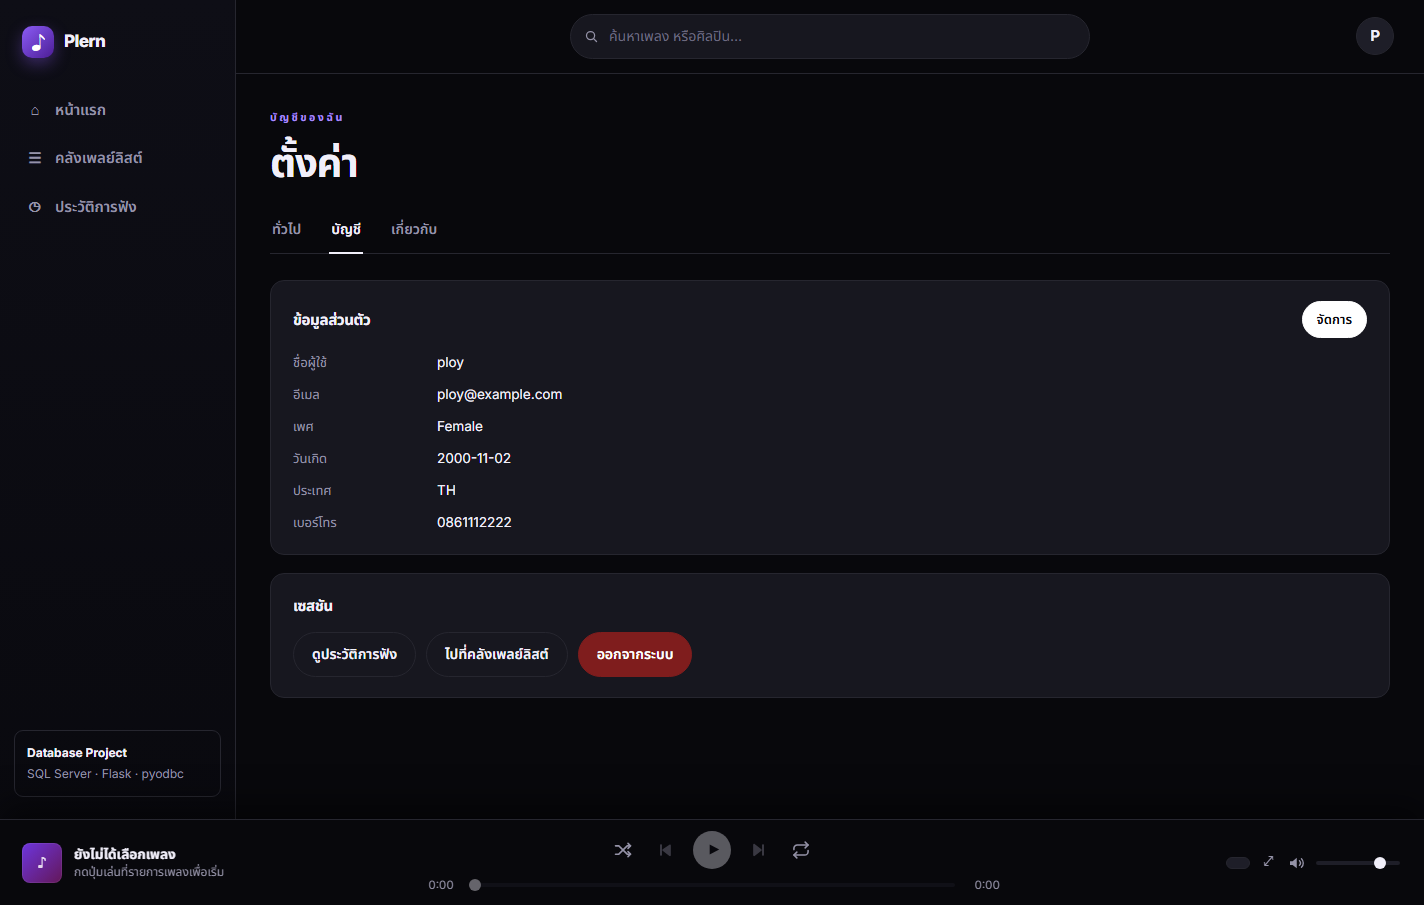
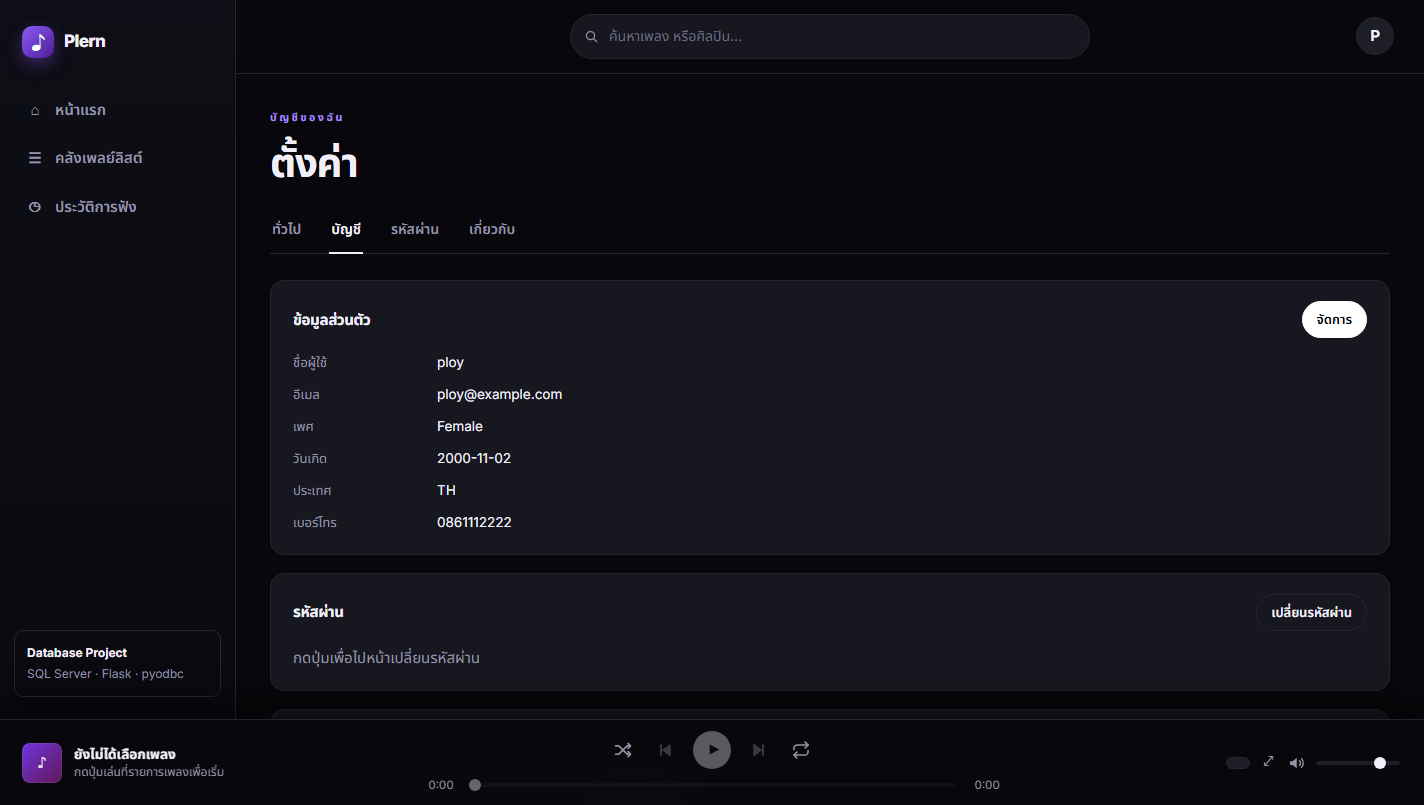
feat(settings): password gets its own tab at /settings/account/change-password

diff --git a/app/templates/settings_account.html b/app/templates/settings_account.html
@@ -17,30 +17,13 @@
 </section>
 
 <section class="settings-card">
-  <h2>{{ t('password.title') }}</h2>
-  <form method="post" action="{{ url_for('main.change_password') }}" class="form password-form">
-    <div class="field-row">
-      <label class="field">
-        <span>{{ t('password.current') }}</span>
-        <input type="password" name="current" required autocomplete="current-password">
-      </label>
-      <label class="field">
-        <span>{{ t('password.new') }}</span>
-        <input type="password" name="new" required minlength="8" autocomplete="new-password"
-               placeholder="{{ t('password.hint') }}">
-      </label>
-    </div>
-    <div class="field-row">
-      <label class="field">
-        <span>{{ t('password.confirm') }}</span>
-        <input type="password" name="confirm" required minlength="8" autocomplete="new-password">
-      </label>
-      <div class="field field-submit">
-        <span>&nbsp;</span>
-        <button class="btn btn-light" type="submit">{{ t('password.submit') }}</button>
-      </div>
-    </div>
-  </form>
+  <div class="card-head">
+    <h2>{{ t('password.title') }}</h2>
+    <a class="btn btn-ghost btn-sm" href="{{ url_for('main.change_password_page') }}">
+      {{ t('password.submit') }}
+    </a>
+  </div>
+  <p class="muted">{{ t('password.go_hint') }}</p>
 </section>
 
 <section class="settings-card">

diff --git a/app/templates/settings_password.html b/app/templates/settings_password.html
@@ -1,0 +1,31 @@
+{% extends "settings_base.html" %}
+
+{% block settings_content %}
+<section class="settings-card">
+  <h2>{{ t('password.title') }}</h2>
+
+  <form method="post" class="form password-form">
+    <label class="field">
+      <span>{{ t('password.current') }}</span>
+      <input type="password" name="current" required autocomplete="current-password">
+    </label>
+
+    <div class="field-row">
+      <label class="field">
+        <span>{{ t('password.new') }}</span>
+        <input type="password" name="new" required minlength="8" autocomplete="new-password"
+               placeholder="{{ t('password.hint') }}">
+      </label>
+      <label class="field">
+        <span>{{ t('password.confirm') }}</span>
+        <input type="password" name="confirm" required minlength="8" autocomplete="new-password">
+      </label>
+    </div>
+
+    <div class="row-actions">
+      <button class="btn btn-light" type="submit">{{ t('password.submit') }}</button>
+      <a class="btn btn-ghost" href="{{ url_for('main.settings_tab', tab='account') }}">{{ t('edit.cancel') }}</a>
+    </div>
+  </form>
+</section>
+{% endblock %}

diff --git a/app/templates/settings_base.html b/app/templates/settings_base.html
@@ -9,9 +9,9 @@
 </header>
 
 <nav class="settings-tabs">
-  {% for name in tabs %}
-    <a class="settings-tab {{ 'active' if tab == name }}"
-       href="{{ url_for('main.settings_tab', tab=name) }}">{{ t('settings.tab.' ~ name) }}</a>
+  {% for item in tabs %}
+    <a class="settings-tab {{ 'active' if tab == item.slug }}"
+       href="{{ item.url }}">{{ t(item.label) }}</a>
   {% endfor %}
 </nav>
 

diff --git a/app/routes.py b/app/routes.py
@@ -766,7 +766,21 @@ def logout():
 # ---------------------------------------------------------------------------
 # Profile menu pages: account settings, help, legal
 # ---------------------------------------------------------------------------
-SETTINGS_TABS = ("general", "account", "about")
+SETTINGS_TABS = ("general", "account", "password", "about")
+
+
+def _settings_tabs(active: str) -> list[dict]:
+    """Tab bar entries: (slug, url, i18n key)"""
+    return [
+        {"slug": "general", "url": url_for("main.settings_tab", tab="general"),
+         "label": "settings.tab.general"},
+        {"slug": "account", "url": url_for("main.settings_tab", tab="account"),
+         "label": "settings.tab.account"},
+        {"slug": "password", "url": url_for("main.change_password_page"),
+         "label": "settings.tab.password"},
+        {"slug": "about", "url": url_for("main.settings_tab", tab="about"),
+         "label": "settings.tab.about"},
+    ], active
 
 
 def _settings_context(tab: str) -> dict:
@@ -792,7 +806,8 @@ def _settings_context(tab: str) -> dict:
         """,
         (g.user["UserID"],) * 4,
     )
-    return {"user": user, "stats": stats, "tab": tab, "tabs": SETTINGS_TABS}
+    entries, _ = _settings_tabs(tab)
+    return {"user": user, "stats": stats, "tab": tab, "tabs": entries}
 
 
 @bp.get("/settings")
@@ -805,7 +820,7 @@ def settings():
 @bp.get("/settings/<tab>")
 @login_required
 def settings_tab(tab: str):
-    if tab not in SETTINGS_TABS:
+    if tab not in ("general", "account", "about"):
         abort(404)
     return render_template(f"settings_{tab}.html", **_settings_context(tab))
 
@@ -904,30 +919,34 @@ def account_edit():
     return render(form)
 
 
-@bp.post("/settings/account/password")
+@bp.route("/settings/account/change-password", methods=["GET", "POST"])
 @login_required
-def change_password():
-    """Change password from its own card on the account tab"""
-    row = db.query_one("SELECT Password FROM dbo.[User] WHERE UserID = ?",
-                       (g.user["UserID"],))
-    current = request.form.get("current") or ""
-    new = request.form.get("new") or ""
-    confirm = request.form.get("confirm") or ""
+def change_password_page():
+    """Its own page (and tab) for changing the password"""
+    if request.method == "POST":
+        row = db.query_one("SELECT Password FROM dbo.[User] WHERE UserID = ?",
+                           (g.user["UserID"],))
+        current = request.form.get("current") or ""
+        new = request.form.get("new") or ""
+        confirm = request.form.get("confirm") or ""
 
-    if row is None:
-        abort(404)
-    if not verify_password(current, row["Password"]):
-        flash("รหัสผ่านปัจจุบันไม่ถูกต้อง", "error")
-    elif len(new) < 8:
-        flash("รหัสผ่านใหม่ต้องยาวอย่างน้อย 8 ตัวอักษร", "error")
-    elif new != confirm:
-        flash("รหัสผ่านใหม่ทั้งสองช่องไม่ตรงกัน", "error")
-    else:
-        db.execute("UPDATE dbo.[User] SET Password = ? WHERE UserID = ?",
-                   (hash_password(new), g.user["UserID"]))
-        flash("เปลี่ยนรหัสผ่านแล้ว", "success")
+        if row is None:
+            abort(404)
+        if not verify_password(current, row["Password"]):
+            flash("รหัสผ่านปัจจุบันไม่ถูกต้อง", "error")
+        elif len(new) < 8:
+            flash("รหัสผ่านใหม่ต้องยาวอย่างน้อย 8 ตัวอักษร", "error")
+        elif new != confirm:
+            flash("รหัสผ่านใหม่ทั้งสองช่องไม่ตรงกัน", "error")
+        else:
+            db.execute("UPDATE dbo.[User] SET Password = ? WHERE UserID = ?",
+                       (hash_password(new), g.user["UserID"]))
+            flash("เปลี่ยนรหัสผ่านแล้ว", "success")
+            return redirect(url_for("main.settings_tab", tab="account"))
 
-    return redirect(url_for("main.settings_tab", tab="account"))
+    entries, _ = _settings_tabs("password")
+    return render_template("settings_password.html", tab="password", tabs=entries,
+                           user=g.user, stats=None)
 
 
 @bp.post("/settings/language")

diff --git a/app/i18n.py b/app/i18n.py
@@ -28,6 +28,7 @@ STRINGS: dict[str, dict[str, str]] = {
         "settings.sub": "ข้อมูลบัญชี การใช้งาน และการตั้งค่าทั่วไป",
         "settings.tab.general": "ทั่วไป",
         "settings.tab.account": "บัญชี",
+        "settings.tab.password": "รหัสผ่าน",
         "settings.tab.about": "เกี่ยวกับ",
         "settings.playback": "การเล่นเพลง",
         "settings.playback_note": "ระดับเสียงถูกจำไว้ในเบราว์เซอร์ของคุณ (localStorage) จึงคงอยู่แม้รีเฟรชหน้า",
@@ -46,6 +47,7 @@ STRINGS: dict[str, dict[str, str]] = {
         "password.new": "รหัสผ่านใหม่",
         "password.confirm": "ยืนยันรหัสผ่านใหม่",
         "password.submit": "เปลี่ยนรหัสผ่าน",
+        "password.go_hint": "กดปุ่มเพื่อไปหน้าเปลี่ยนรหัสผ่าน",
         "password.hint": "อย่างน้อย 8 ตัวอักษร",
 
         "edit.title": "แก้ไขข้อมูลบัญชี",
@@ -99,6 +101,7 @@ STRINGS: dict[str, dict[str, str]] = {
         "settings.sub": "Account details, usage and general preferences",
         "settings.tab.general": "General",
         "settings.tab.account": "Account",
+        "settings.tab.password": "Password",
         "settings.tab.about": "About",
         "settings.playback": "Playback",
         "settings.playback_note": "Volume is remembered in your browser (localStorage), so it survives a refresh.",
@@ -117,6 +120,7 @@ STRINGS: dict[str, dict[str, str]] = {
         "password.new": "New password",
         "password.confirm": "Confirm new password",
         "password.submit": "Change password",
+        "password.go_hint": "Open the page to change your password",
         "password.hint": "At least 8 characters",
 
         "edit.title": "Edit account",

diff --git a/tools/smoke_test.py b/tools/smoke_test.py
@@ -129,6 +129,23 @@ def main() -> int:
     r = st.get(base + "/settings/nope", timeout=15)
     check("แท็บที่ไม่มีอยู่ -> 404", r.status_code == 404, str(r.status_code))
 
+    r = st.get(base + "/settings/account/change-password", timeout=15)
+    check("GET /settings/account/change-password ตอบ 200", r.status_code == 200, str(r.status_code))
+    check("หน้ารหัสผ่านมีฟอร์ม", "password-form" in r.text)
+
+    r = st.get(base + "/settings/password", timeout=15)
+    check("GET /settings/password -> 404 (ไม่ใช่แท็บ)", r.status_code == 404, str(r.status_code))
+
+    r = st.post(base + "/settings/account/change-password",
+                data={"current": "wrong-password", "new": "abcdefgh", "confirm": "abcdefgh"},
+                allow_redirects=True, timeout=20)
+    check("รหัสผ่านปัจจุบันผิด ถูกปฏิเสธ", "รหัสผ่านปัจจุบันไม่ถูกต้อง" in r.text)
+
+    r = st.post(base + "/settings/account/change-password",
+                data={"current": "demo1234", "new": "abcdefgh", "confirm": "zzzzzzzz"},
+                allow_redirects=True, timeout=20)
+    check("ยืนยันรหัสผ่านไม่ตรง ถูกปฏิเสธ", "ไม่ตรงกัน" in r.text)
+
     r = session.get(base + "/artists", timeout=15)
     check("GET /artists (ศิลปินทั้งหมด) ตอบ 200", r.status_code == 200, str(r.status_code))
     check("หน้า /artists มีการ์ดศิลปิน", r.text.count('class="artist-card"') >= 10,
